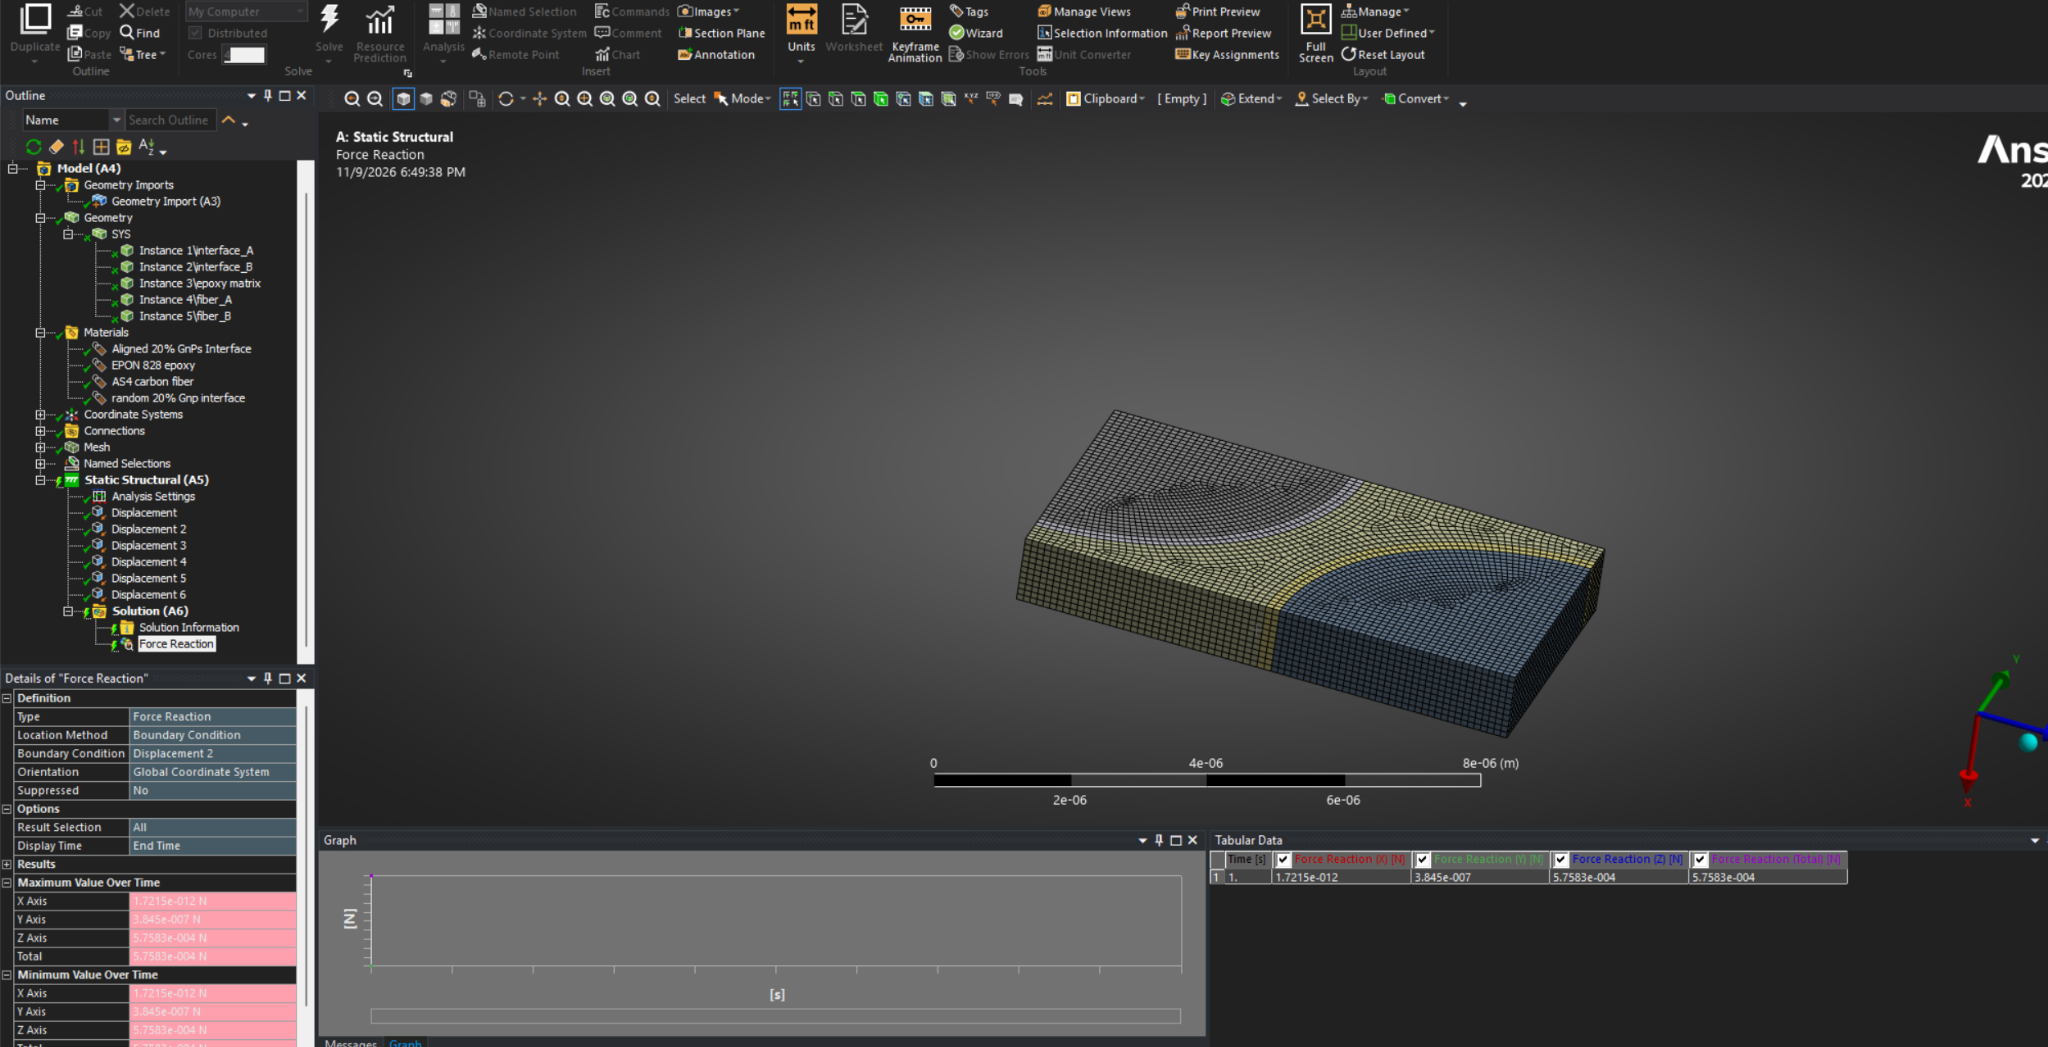
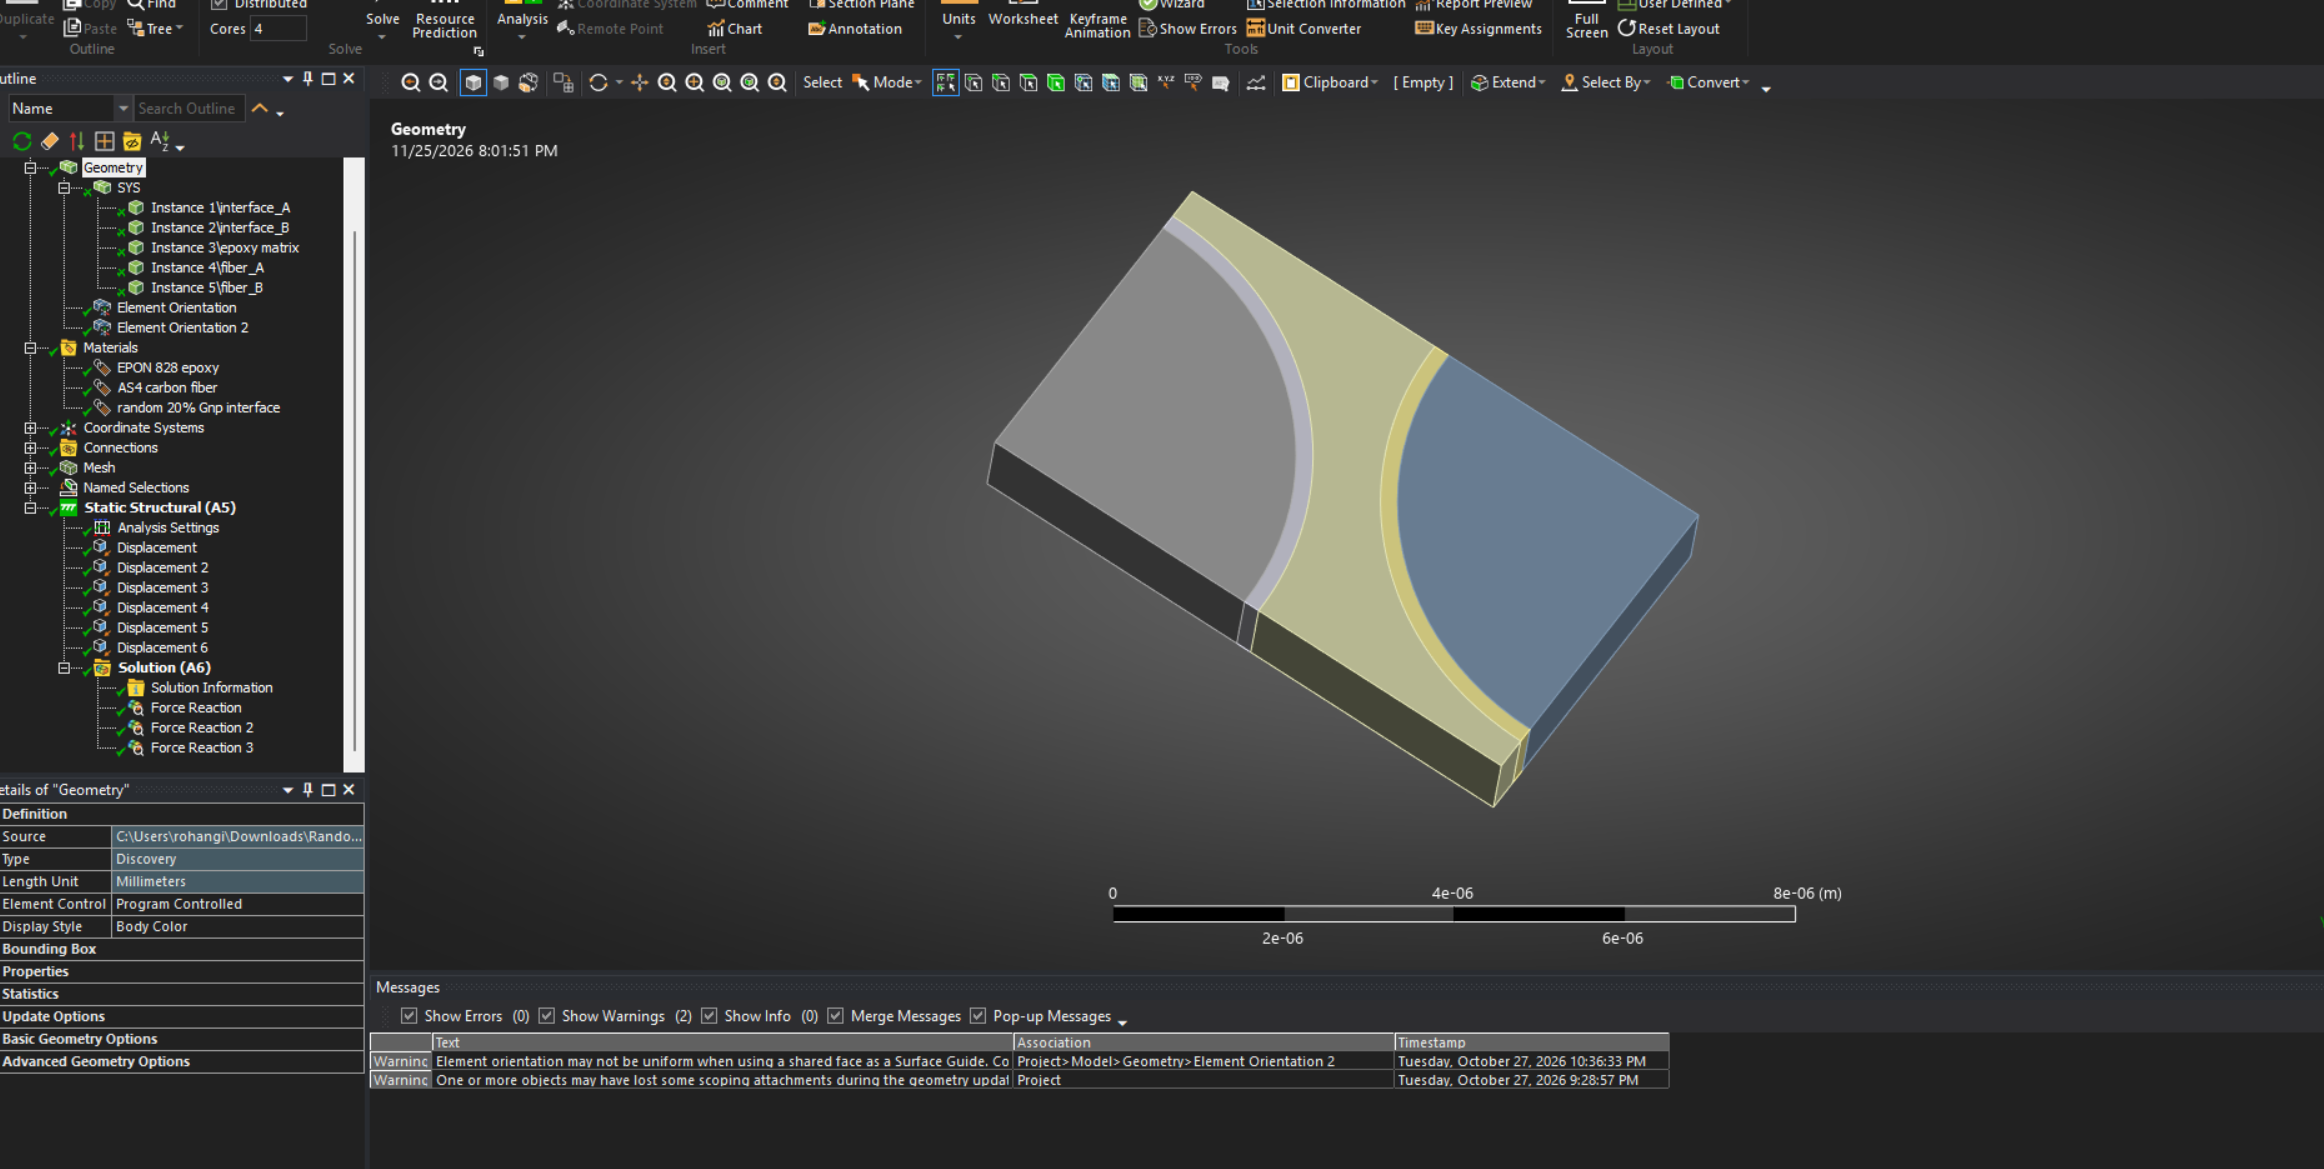
docs: replace one-eighth RVE image with geometry screenshot

diff --git a/README.md b/README.md
@@ -6,9 +6,9 @@
 
 | One-eighth RVE — symmetry-based normal loading | Full RVE — periodic shear loading |
 | :---: | :---: |
-| ![ANSYS Mechanical mesh of the one-eighth hexagonal RVE](images/one-eighth-rve-ansys.png) | ![ANSYS Mechanical mesh of the full hexagonal RVE](images/full-rve-ansys.png) |
+| ![ANSYS Mechanical geometry of the one-eighth hexagonal RVE](images/one-eighth-rve-ansys.png) | ![ANSYS Mechanical mesh of the full hexagonal RVE](images/full-rve-ansys.png) |
 
-*Original ANSYS Mechanical screenshots of the one-eighth and full RVE models.*
+*ANSYS Mechanical geometry view of the one-eighth RVE and mesh view of the full RVE.*
 
 ## Project overview
 
